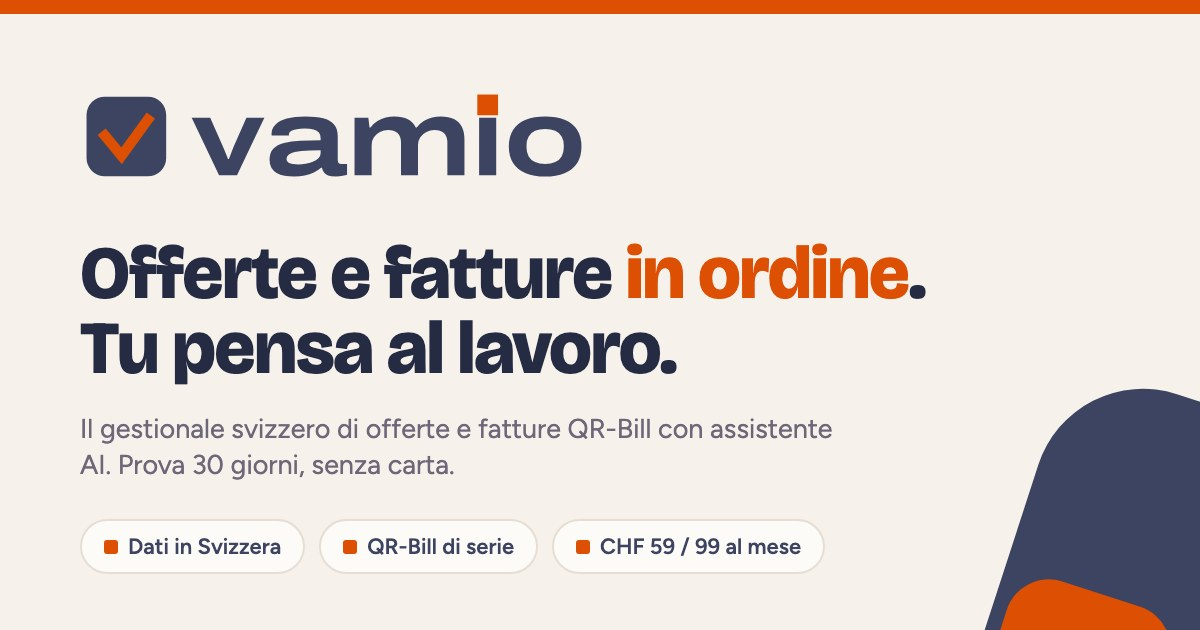
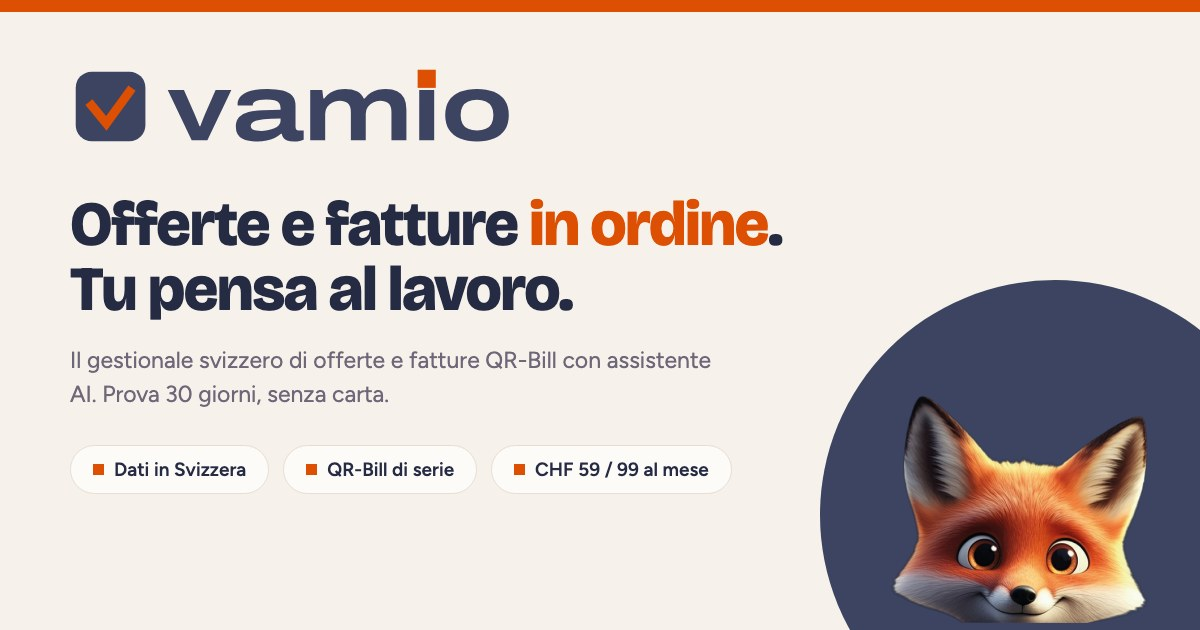
Volpe anche nell'anteprima social del link
Rifatta og-image.jpg con la volpe nell'angolo; l'URL porta ?v=2 per
far rileggere l'immagine a WhatsApp, Facebook e LinkedIn.

diff --git a/index.html b/index.html
@@ -19,7 +19,7 @@
 <meta property="og:site_name" content="Vamio">
 <meta property="og:title" content="Vamio, offerte e fatture in ordine. Tu pensa al lavoro.">
 <meta property="og:description" content="Il gestionale svizzero di offerte e fatture QR-Bill con assistente AI. Prova 30 giorni, senza carta.">
-<meta property="og:image" content="https://vamio.ch/web-assets/og-image.jpg">
+<meta property="og:image" content="https://vamio.ch/web-assets/og-image.jpg?v=2">
 <meta property="og:image:width" content="1200"><meta property="og:image:height" content="630">
 <meta property="og:locale" content="it_CH">
 <meta name="twitter:card" content="summary_large_image">
